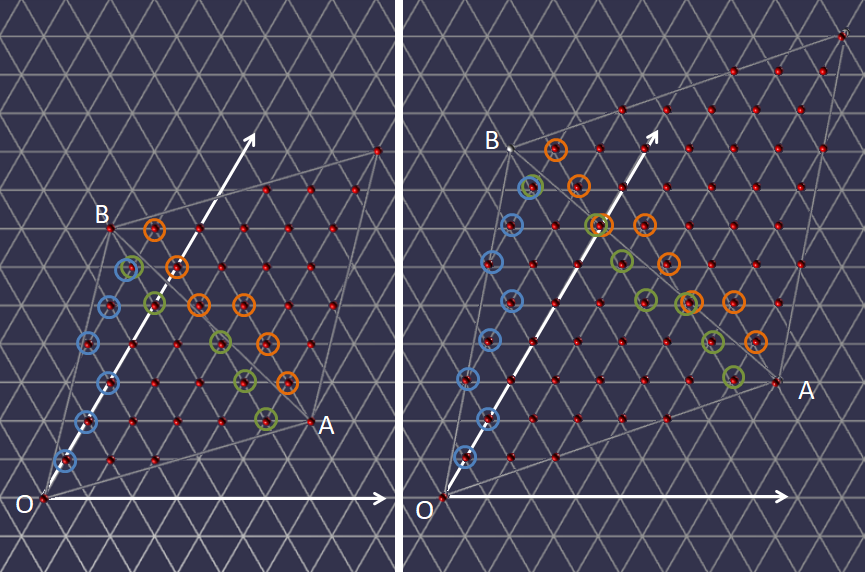
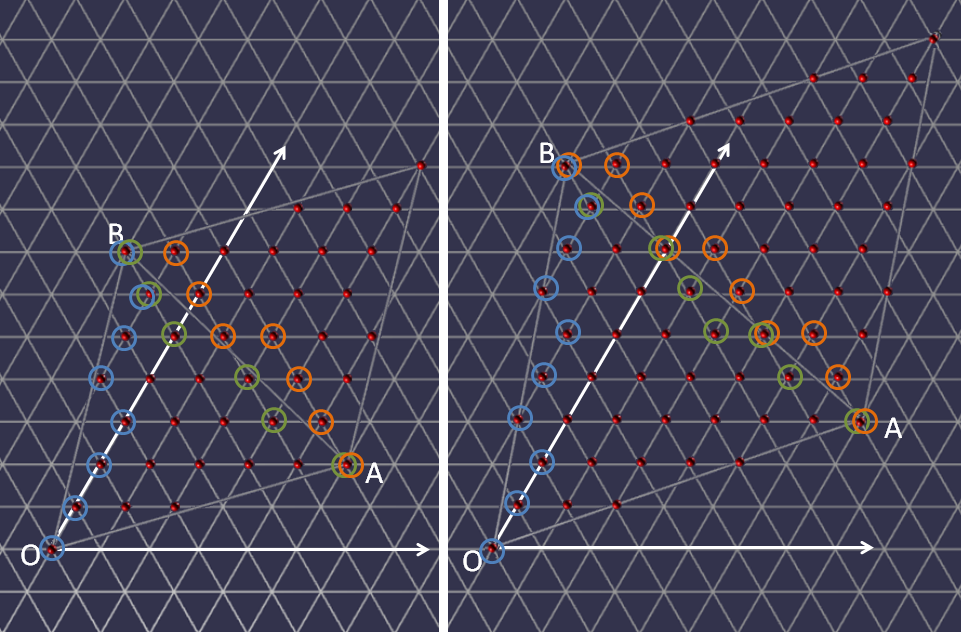
added facet points

diff --git a/content/snippets/gamelets/Geodesic_Design.md b/content/snippets/gamelets/Geodesic_Design.md
@@ -122,9 +122,9 @@ Consider a primary triangle OAB as in Fig 12
 ![primary triangle](/img/snippets/geo15.png)  
 Fig 12 Rotation of Primary Triangle about the B for - Left GD(5, 2), Right (GD(6, 3))
 
-For triangle OAB take O as the origin of the isometric axes then each vertex (red sphere) can be given (x, y) coordinates. For each y there is a minimum (blue marker) and maximum (green) value of x that belong to OAB. Rotating OAB 60<sup>o</sup> counter clockwise about B the minimum x map to the orange markers in the rotation. As you can see in the Fig 12 example, for GD(m, n) when n is a factor of m then the maximum x (green) of OAB coincide with the rotated minimum x (orange) for some vertices.
+For triangle OAB take O as the origin of the isometric axes then each vertex (red sphere) can be given (x, y) coordinates. For each y there is a minimum (blue marker) and maximum (green) value of x that belong to OAB. Rotating OAB 60<sup>o</sup> counter clockwise about B the minimum x map to the orange markers in the rotation. As you can see in Fig 12 example there is overlap of maximum and minimum markers at the primary triangle vertices. For GD(m, n) when n is a factor of m then the maximum x (green) of OAB coincide with the rotated minimum x (orange) for some facet vertices as well as at the primary triangle vertices.
 
-In order to form the triangular facets that overlap the edge 
+In order to form the triangular facets that overlap the edge for each row y where there is no overlap of maximum x (green) with rotated minimum x (orange) let *p* be the position vector of the rotated minimum. Then the required facet triangles are formed with from the points with position vectors *p*, *p* - *i*&#8407; *p* - *j*&#8407; and secondly from *p*, *p* - *j*&#8407; *p* + *i*&#8407; - *j*&#8407; 
 
 ### Map Vertices Across Edges of a Primary Face
 
